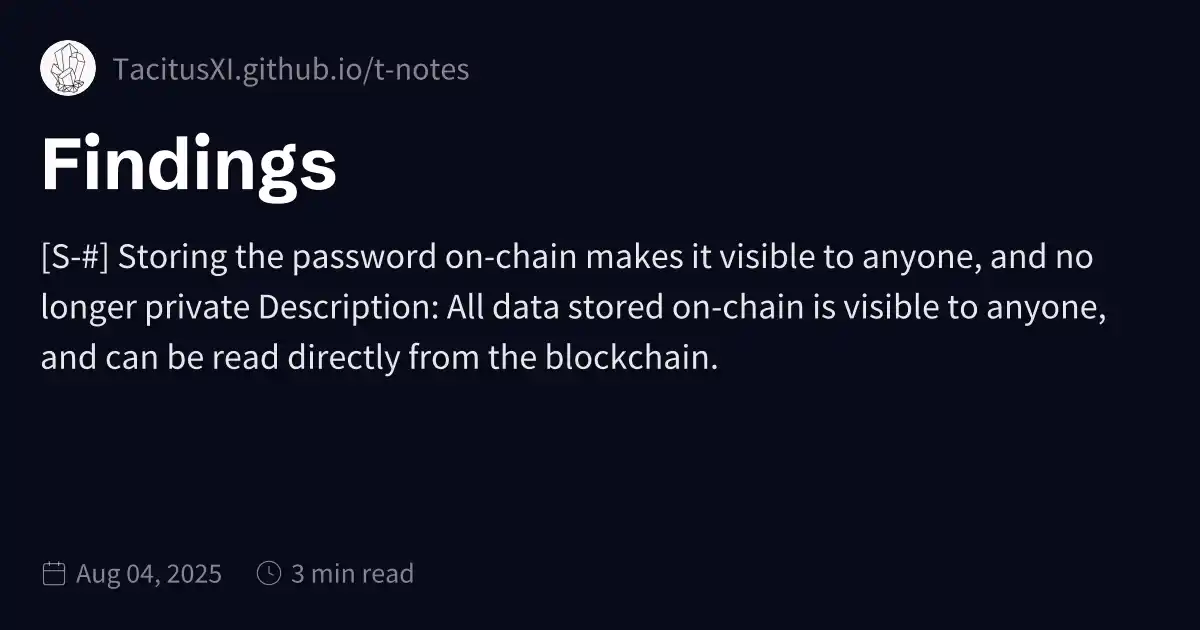
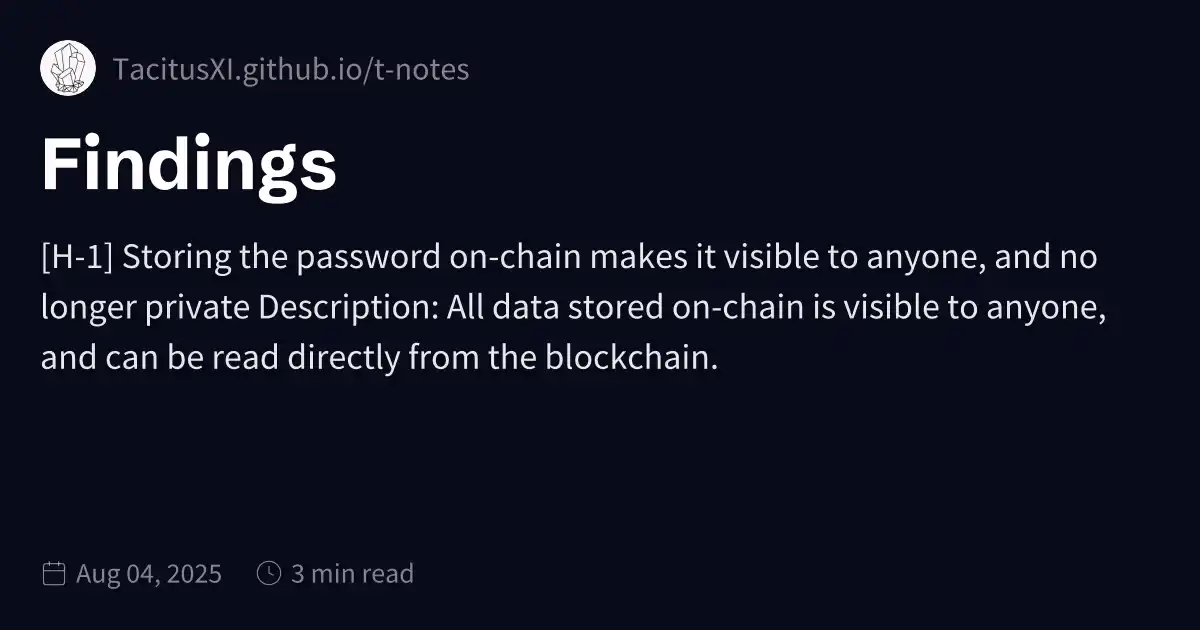
Updates

Changed region(s): [[0.0308, 0.3619, 0.925, 0.4524]]

diff --git a/Audits/PasswordStore/Findings.html b/Audits/PasswordStore/Findings.html
@@ -1,5 +1,5 @@
 <!DOCTYPE html>
-<html lang="en"><head><title>Findings</title><meta charset="utf-8"/><link rel="preconnect" href="https://fonts.googleapis.com"/><link rel="preconnect" href="https://fonts.gstatic.com"/><link rel="stylesheet" href="https://fonts.googleapis.com/css2?family=Schibsted Grotesk:wght@400;700&amp;family=Source Sans Pro:ital,wght@0,400;0,600;1,400;1,600&amp;family=IBM Plex Mono:wght@400;600&amp;display=swap"/><link rel="preconnect" href="https://cdnjs.cloudflare.com" crossorigin="anonymous"/><meta name="viewport" content="width=device-width, initial-scale=1.0"/><meta name="og:site_name" content="Tacitvs Notes"/><meta property="og:title" content="Findings"/><meta property="og:type" content="website"/><meta name="twitter:card" content="summary_large_image"/><meta name="twitter:title" content="Findings"/><meta name="twitter:description" content="[S-#] Storing the password on-chain makes it visible to anyone, and no longer private Description: All data stored on-chain is visible to anyone, and can be read directly from the blockchain."/><meta property="og:description" content="[S-#] Storing the password on-chain makes it visible to anyone, and no longer private Description: All data stored on-chain is visible to anyone, and can be read directly from the blockchain."/><meta property="og:image:alt" content="[S-#] Storing the password on-chain makes it visible to anyone, and no longer private Description: All data stored on-chain is visible to anyone, and can be read directly from the blockchain."/><meta property="twitter:domain" content="TacitusXI.github.io/t-notes"/><meta property="og:url" content="https://tacitusxi.github.io/t-notes/Audits/PasswordStore/Findings"/><meta property="twitter:url" content="https://tacitusxi.github.io/t-notes/Audits/PasswordStore/Findings"/><link rel="icon" href="../../static/icon.png"/><meta name="description" content="[S-#] Storing the password on-chain makes it visible to anyone, and no longer private Description: All data stored on-chain is visible to anyone, and can be read directly from the blockchain."/><meta name="generator" content="Quartz"/><link href="../../index.css" rel="stylesheet" type="text/css" spa-preserve/><style>.expand-button {
+<html lang="en"><head><title>Findings</title><meta charset="utf-8"/><link rel="preconnect" href="https://fonts.googleapis.com"/><link rel="preconnect" href="https://fonts.gstatic.com"/><link rel="stylesheet" href="https://fonts.googleapis.com/css2?family=Schibsted Grotesk:wght@400;700&amp;family=Source Sans Pro:ital,wght@0,400;0,600;1,400;1,600&amp;family=IBM Plex Mono:wght@400;600&amp;display=swap"/><link rel="preconnect" href="https://cdnjs.cloudflare.com" crossorigin="anonymous"/><meta name="viewport" content="width=device-width, initial-scale=1.0"/><meta name="og:site_name" content="Tacitvs Notes"/><meta property="og:title" content="Findings"/><meta property="og:type" content="website"/><meta name="twitter:card" content="summary_large_image"/><meta name="twitter:title" content="Findings"/><meta name="twitter:description" content="[H-1] Storing the password on-chain makes it visible to anyone, and no longer private Description: All data stored on-chain is visible to anyone, and can be read directly from the blockchain."/><meta property="og:description" content="[H-1] Storing the password on-chain makes it visible to anyone, and no longer private Description: All data stored on-chain is visible to anyone, and can be read directly from the blockchain."/><meta property="og:image:alt" content="[H-1] Storing the password on-chain makes it visible to anyone, and no longer private Description: All data stored on-chain is visible to anyone, and can be read directly from the blockchain."/><meta property="twitter:domain" content="TacitusXI.github.io/t-notes"/><meta property="og:url" content="https://tacitusxi.github.io/t-notes/Audits/PasswordStore/Findings"/><meta property="twitter:url" content="https://tacitusxi.github.io/t-notes/Audits/PasswordStore/Findings"/><link rel="icon" href="../../static/icon.png"/><meta name="description" content="[H-1] Storing the password on-chain makes it visible to anyone, and no longer private Description: All data stored on-chain is visible to anyone, and can be read directly from the blockchain."/><meta name="generator" content="Quartz"/><link href="../../index.css" rel="stylesheet" type="text/css" spa-preserve/><style>.expand-button {
   position: absolute;
   display: flex;
   float: right;
@@ -116,7 +116,7 @@ pre:hover > .expand-button {
   padding: 0 12px;
   font-size: 14px;
 }
[2 lines of base64/hex data omitted]
 <p><strong>Description:</strong> All data stored on-chain is visible to anyone, and can be read directly from the blockchain. The <code>PasswordStore::s_password</code> variable is intended to be a private variable and only accessed through the <code>PasswordStore::getPassword</code> function, which is intended to be only called by the owner of the contract.</p>
 <p>We show one such method of reading any data off chain below.</p>
 <p><strong>Impact:</strong> Anyone can read the private password, severly breaking the functionlity of the protocol.</p>
@@ -156,7 +156,19 @@ myPassword
 
 </code></pre>
 <p><strong>Recommended Mitigation:</strong> Due to this, the overall architecture of the contract should be rethought. One could encrypt the password off-chain, and then sore the encrypted password on-chain. This would require user to remember another passwoord off-chain to decrypt the password. However, you’d also likely want to remove view function as you wouldn’t want the user to accidentally send a transaction with the password that decrypt your password.</p>
-<h3 id="s--passwordstoresetpassword-has-no-access-control-meaning-a-non-owner-could-change-the-password">[S-#] <code>PasswordStore::setpassword</code> has no access control, meaning a non-owner could change the password<a role="anchor" aria-hidden="true" tabindex="-1" data-no-popover="true" href="#s--passwordstoresetpassword-has-no-access-control-meaning-a-non-owner-could-change-the-password" class="internal"><svg width="18" height="18" viewBox="0 0 24 24" fill="none" stroke="currentColor" stroke-width="2" stroke-linecap="round" stroke-linejoin="round"><path d="M10 13a5 5 0 0 0 7.54.54l3-3a5 5 0 0 0-7.07-7.07l-1.72 1.71"></path><path d="M14 11a5 5 0 0 0-7.54-.54l-3 3a5 5 0 0 0 7.07 7.07l1.71-1.71"></path></svg></a></h3>
+<h2 id="likelihood--impact">Likelihood &amp; Impact:<a role="anchor" aria-hidden="true" tabindex="-1" data-no-popover="true" href="#likelihood--impact" class="internal"><svg width="18" height="18" viewBox="0 0 24 24" fill="none" stroke="currentColor" stroke-width="2" stroke-linecap="round" stroke-linejoin="round"><path d="M10 13a5 5 0 0 0 7.54.54l3-3a5 5 0 0 0-7.07-7.07l-1.72 1.71"></path><path d="M14 11a5 5 0 0 0-7.54-.54l-3 3a5 5 0 0 0 7.07 7.07l1.71-1.71"></path></svg></a></h2>
+<ul>
+<li>
+<p>Impact: High</p>
+</li>
+<li>
+<p>Likelihood: HIGH</p>
+</li>
+<li>
+<p>Severity: HIGH</p>
+</li>
+</ul>
+<h3 id="h-2-passwordstoresetpassword-has-no-access-control-meaning-a-non-owner-could-change-the-password">[H-2] <code>PasswordStore::setpassword</code> has no access control, meaning a non-owner could change the password<a role="anchor" aria-hidden="true" tabindex="-1" data-no-popover="true" href="#h-2-passwordstoresetpassword-has-no-access-control-meaning-a-non-owner-could-change-the-password" class="internal"><svg width="18" height="18" viewBox="0 0 24 24" fill="none" stroke="currentColor" stroke-width="2" stroke-linecap="round" stroke-linejoin="round"><path d="M10 13a5 5 0 0 0 7.54.54l3-3a5 5 0 0 0-7.07-7.07l-1.72 1.71"></path><path d="M14 11a5 5 0 0 0-7.54-.54l-3 3a5 5 0 0 0 7.07 7.07l1.71-1.71"></path></svg></a></h3>
 <p><strong>Description:</strong> The <code>PasswordStore::setpassword</code> function is set to be an <code>external</code> function, however the natspec of the function and overall purpose of the smart contract is that <code>The function allows only the owner to set a new password.</code></p>
 <figure data-rehype-pretty-code-figure><pre tabindex="0" data-language="javascript" data-theme="github-light github-dark"><code data-language="javascript" data-theme="github-light github-dark" style="display:grid;"><span data-line> </span>
 <span data-line><span style="--shiki-light:#D73A49;--shiki-dark:#F97583;">function</span><span style="--shiki-light:#6F42C1;--shiki-dark:#B392F0;"> setPassword</span><span style="--shiki-light:#24292E;--shiki-dark:#E1E4E8;">(</span><span style="--shiki-light:#E36209;--shiki-dark:#FFAB70;">string</span><span style="--shiki-light:#E36209;--shiki-dark:#FFAB70;"> memory</span><span style="--shiki-light:#E36209;--shiki-dark:#FFAB70;"> newPassword</span><span style="--shiki-light:#24292E;--shiki-dark:#E1E4E8;">) </span><span style="--shiki-light:#6F42C1;--shiki-dark:#B392F0;">external</span><span style="--shiki-light:#24292E;--shiki-dark:#E1E4E8;"> {</span></span>
@@ -203,7 +215,19 @@ myPassword
 <span data-line> </span>
 <span data-line><span style="--shiki-light:#24292E;--shiki-dark:#E1E4E8;">}</span></span>
 <span data-line> </span></code></pre></figure>
-<h3 id="s--the-passwordstoregetpassword-natspec-indicates-a-parameter-that-doesnt-exist-causing-the-natspec-to-be-incorrect">[S-#] The <code>PasswordStore::getPassword</code> natspec indicates a parameter that doesn’t exist, causing the natspec to be incorrect.<a role="anchor" aria-hidden="true" tabindex="-1" data-no-popover="true" href="#s--the-passwordstoregetpassword-natspec-indicates-a-parameter-that-doesnt-exist-causing-the-natspec-to-be-incorrect" class="internal"><svg width="18" height="18" viewBox="0 0 24 24" fill="none" stroke="currentColor" stroke-width="2" stroke-linecap="round" stroke-linejoin="round"><path d="M10 13a5 5 0 0 0 7.54.54l3-3a5 5 0 0 0-7.07-7.07l-1.72 1.71"></path><path d="M14 11a5 5 0 0 0-7.54-.54l-3 3a5 5 0 0 0 7.07 7.07l1.71-1.71"></path></svg></a></h3>
+<h2 id="likelihood--impact-1">Likelihood &amp; Impact:<a role="anchor" aria-hidden="true" tabindex="-1" data-no-popover="true" href="#likelihood--impact-1" class="internal"><svg width="18" height="18" viewBox="0 0 24 24" fill="none" stroke="currentColor" stroke-width="2" stroke-linecap="round" stroke-linejoin="round"><path d="M10 13a5 5 0 0 0 7.54.54l3-3a5 5 0 0 0-7.07-7.07l-1.72 1.71"></path><path d="M14 11a5 5 0 0 0-7.54-.54l-3 3a5 5 0 0 0 7.07 7.07l1.71-1.71"></path></svg></a></h2>
+<ul>
+<li>
+<p>Impact: High</p>
+</li>
+<li>
+<p>Likelihood: HIGH</p>
+</li>
+<li>
+<p>Severity: HIGH</p>
+</li>
+</ul>
+<h3 id="i-1-the-passwordstoregetpassword-natspec-indicates-a-parameter-that-doesnt-exist-causing-the-natspec-to-be-incorrect">[I-1] The <code>PasswordStore::getPassword</code> natspec indicates a parameter that doesn’t exist, causing the natspec to be incorrect.<a role="anchor" aria-hidden="true" tabindex="-1" data-no-popover="true" href="#i-1-the-passwordstoregetpassword-natspec-indicates-a-parameter-that-doesnt-exist-causing-the-natspec-to-be-incorrect" class="internal"><svg width="18" height="18" viewBox="0 0 24 24" fill="none" stroke="currentColor" stroke-width="2" stroke-linecap="round" stroke-linejoin="round"><path d="M10 13a5 5 0 0 0 7.54.54l3-3a5 5 0 0 0-7.07-7.07l-1.72 1.71"></path><path d="M14 11a5 5 0 0 0-7.54-.54l-3 3a5 5 0 0 0 7.07 7.07l1.71-1.71"></path></svg></a></h3>
 <p><strong>Description:</strong></p>
 <pre><code>
 /*
@@ -222,7 +246,20 @@ function getPassword() external view returns (string memory) {
 <p><strong>Recommended Mitigation:</strong> Remove the incorrect natspec line.</p>
 <figure data-rehype-pretty-code-figure><pre tabindex="0" data-language="diff" data-theme="github-light github-dark"><code data-language="diff" data-theme="github-light github-dark" style="display:grid;"><span data-line> </span>
 <span data-line><span style="--shiki-light:#B31D28;--shiki-dark:#FDAEB7;">- * @param newPassword The new password to set.</span></span>
-<span data-line> </span></code></pre></figure></article><hr/><div class="page-footer"></div></div><div class="right sidebar"><div class="graph"><h3>Graph View</h3><div class="graph-outer"><div class="graph-container" data-cfg="{&quot;drag&quot;:true,&quot;zoom&quot;:true,&quot;depth&quot;:1,&quot;scale&quot;:1.1,&quot;repelForce&quot;:0.5,&quot;centerForce&quot;:0.3,&quot;linkDistance&quot;:30,&quot;fontSize&quot;:0.6,&quot;opacityScale&quot;:1,&quot;showTags&quot;:true,&quot;removeTags&quot;:[],&quot;focusOnHover&quot;:false,&quot;enableRadial&quot;:false}"></div><button class="global-graph-icon" aria-label="Global Graph"><svg version="1.1" xmlns="http://www.w3.org/2000/svg" xmlns:xlink="http://www.w3.org/1999/xlink" x="0px" y="0px" viewBox="0 0 55 55" fill="currentColor" xml:space="preserve"><path d="M49,0c-3.309,0-6,2.691-6,6c0,1.035,0.263,2.009,0.726,2.86l-9.829,9.829C32.542,17.634,30.846,17,29,17
+<span data-line> </span></code></pre></figure>
+<h2 id="likelihood--impact-2">Likelihood &amp; Impact:<a role="anchor" aria-hidden="true" tabindex="-1" data-no-popover="true" href="#likelihood--impact-2" class="internal"><svg width="18" height="18" viewBox="0 0 24 24" fill="none" stroke="currentColor" stroke-width="2" stroke-linecap="round" stroke-linejoin="round"><path d="M10 13a5 5 0 0 0 7.54.54l3-3a5 5 0 0 0-7.07-7.07l-1.72 1.71"></path><path d="M14 11a5 5 0 0 0-7.54-.54l-3 3a5 5 0 0 0 7.07 7.07l1.71-1.71"></path></svg></a></h2>
+<ul>
+<li>
+<p>Impact: NONE</p>
+</li>
+<li>
+<p>Likelihood: HIGH?</p>
+</li>
+<li>
+<p>Severity: Informational/Gas/Non-Crits</p>
+</li>
+</ul>
+<p>Informational: Hey, this isn’t a bug, but you should know…</p></article><hr/><div class="page-footer"></div></div><div class="right sidebar"><div class="graph"><h3>Graph View</h3><div class="graph-outer"><div class="graph-container" data-cfg="{&quot;drag&quot;:true,&quot;zoom&quot;:true,&quot;depth&quot;:1,&quot;scale&quot;:1.1,&quot;repelForce&quot;:0.5,&quot;centerForce&quot;:0.3,&quot;linkDistance&quot;:30,&quot;fontSize&quot;:0.6,&quot;opacityScale&quot;:1,&quot;showTags&quot;:true,&quot;removeTags&quot;:[],&quot;focusOnHover&quot;:false,&quot;enableRadial&quot;:false}"></div><button class="global-graph-icon" aria-label="Global Graph"><svg version="1.1" xmlns="http://www.w3.org/2000/svg" xmlns:xlink="http://www.w3.org/1999/xlink" x="0px" y="0px" viewBox="0 0 55 55" fill="currentColor" xml:space="preserve"><path d="M49,0c-3.309,0-6,2.691-6,6c0,1.035,0.263,2.009,0.726,2.86l-9.829,9.829C32.542,17.634,30.846,17,29,17
                 s-3.542,0.634-4.898,1.688l-7.669-7.669C16.785,10.424,17,9.74,17,9c0-2.206-1.794-4-4-4S9,6.794,9,9s1.794,4,4,4
                 c0.74,0,1.424-0.215,2.019-0.567l7.669,7.669C21.634,21.458,21,23.154,21,25s0.634,3.542,1.688,4.897L10.024,42.562
                 C8.958,41.595,7.549,41,6,41c-3.309,0-6,2.691-6,6s2.691,6,6,6s6-2.691,6-6c0-1.035-0.263-2.009-0.726-2.86l12.829-12.829
@@ -232,6 +269,6 @@ function getPassword() external view returns (string memory) {
                 C46.042,11.405,47.451,12,49,12c3.309,0,6-2.691,6-6S52.309,0,49,0z M11,9c0-1.103,0.897-2,2-2s2,0.897,2,2s-0.897,2-2,2
                 S11,10.103,11,9z M6,51c-2.206,0-4-1.794-4-4s1.794-4,4-4s4,1.794,4,4S8.206,51,6,51z M33,49c0,2.206-1.794,4-4,4s-4-1.794-4-4
                 s1.794-4,4-4S33,46.794,33,49z M29,31c-3.309,0-6-2.691-6-6s2.691-6,6-6s6,2.691,6,6S32.309,31,29,31z M47,41c0,1.103-0.897,2-2,2
-                s-2-0.897-2-2s0.897-2,2-2S47,39.897,47,41z M49,10c-2.206,0-4-1.794-4-4s1.794-4,4-4s4,1.794,4,4S51.206,10,49,10z"></path></svg></button></div><div class="global-graph-outer"><div class="global-graph-container" data-cfg="{&quot;drag&quot;:true,&quot;zoom&quot;:true,&quot;depth&quot;:-1,&quot;scale&quot;:0.9,&quot;repelForce&quot;:0.5,&quot;centerForce&quot;:0.2,&quot;linkDistance&quot;:30,&quot;fontSize&quot;:0.6,&quot;opacityScale&quot;:1,&quot;showTags&quot;:true,&quot;removeTags&quot;:[],&quot;focusOnHover&quot;:true,&quot;enableRadial&quot;:true}"></div></div></div><div class="toc desktop-only"><button type="button" class="toc-header" aria-controls="toc-content" aria-expanded="true"><h3>Table of Contents</h3><svg xmlns="http://www.w3.org/2000/svg" width="24" height="24" viewBox="0 0 24 24" fill="none" stroke="currentColor" stroke-width="2" stroke-linecap="round" stroke-linejoin="round" class="fold"><polyline points="6 9 12 15 18 9"></polyline></svg></button><ul class="toc-content overflow" id="list-1"><li class="depth-0"><a href="#s--storing-the-password-on-chain-makes-it-visible-to-anyone-and-no-longer-private" data-for="s--storing-the-password-on-chain-makes-it-visible-to-anyone-and-no-longer-private">[S-#] Storing the password on-chain makes it visible to anyone, and no longer private</a></li><li class="depth-0"><a href="#s--passwordstoresetpassword-has-no-access-control-meaning-a-non-owner-could-change-the-password" data-for="s--passwordstoresetpassword-has-no-access-control-meaning-a-non-owner-could-change-the-password">[S-#] PasswordStore::setpassword has no access control, meaning a non-owner could change the password</a></li><li class="depth-0"><a href="#s--the-passwordstoregetpassword-natspec-indicates-a-parameter-that-doesnt-exist-causing-the-natspec-to-be-incorrect" data-for="s--the-passwordstoregetpassword-natspec-indicates-a-parameter-that-doesnt-exist-causing-the-natspec-to-be-incorrect">[S-#] The PasswordStore::getPassword natspec indicates a parameter that doesn’t exist, causing the natspec to be incorrect.</a></li><li class="overflow-end"></li></ul></div></div><footer class><p>© 2025 Ivan Leskov. All rights reserved.</p><ul><li><a href="https://github.com/TacitusXI/t-notes">GitHub</a></li><li><a href="https://tacitvs.eth.limo/">Digital Hub</a></li></ul></footer></div></div></body><script type="application/javascript">function n(){let t=this.parentElement;t.classList.toggle("is-collapsed");let e=t.getElementsByClassName("callout-content")[0];if(!e)return;let l=t.classList.contains("is-collapsed");e.style.gridTemplateRows=l?"0fr":"1fr"}function c(){let t=document.getElementsByClassName("callout is-collapsible");for(let e of t){let l=e.getElementsByClassName("callout-title")[0],s=e.getElementsByClassName("callout-content")[0];if(!l||!s)continue;l.addEventListener("click",n),window.addCleanup(()=>l.removeEventListener("click",n));let o=e.classList.contains("is-collapsed");s.style.gridTemplateRows=o?"0fr":"1fr"}}document.addEventListener("nav",c);
+                s-2-0.897-2-2s0.897-2,2-2S47,39.897,47,41z M49,10c-2.206,0-4-1.794-4-4s1.794-4,4-4s4,1.794,4,4S51.206,10,49,10z"></path></svg></button></div><div class="global-graph-outer"><div class="global-graph-container" data-cfg="{&quot;drag&quot;:true,&quot;zoom&quot;:true,&quot;depth&quot;:-1,&quot;scale&quot;:0.9,&quot;repelForce&quot;:0.5,&quot;centerForce&quot;:0.2,&quot;linkDistance&quot;:30,&quot;fontSize&quot;:0.6,&quot;opacityScale&quot;:1,&quot;showTags&quot;:true,&quot;removeTags&quot;:[],&quot;focusOnHover&quot;:true,&quot;enableRadial&quot;:true}"></div></div></div><div class="toc desktop-only"><button type="button" class="toc-header" aria-controls="toc-content" aria-expanded="true"><h3>Table of Contents</h3><svg xmlns="http://www.w3.org/2000/svg" width="24" height="24" viewBox="0 0 24 24" fill="none" stroke="currentColor" stroke-width="2" stroke-linecap="round" stroke-linejoin="round" class="fold"><polyline points="6 9 12 15 18 9"></polyline></svg></button><ul class="toc-content overflow" id="list-1"><li class="depth-1"><a href="#h-1-storing-the-password-on-chain-makes-it-visible-to-anyone-and-no-longer-private" data-for="h-1-storing-the-password-on-chain-makes-it-visible-to-anyone-and-no-longer-private">[H-1] Storing the password on-chain makes it visible to anyone, and no longer private</a></li><li class="depth-0"><a href="#likelihood--impact" data-for="likelihood--impact">Likelihood &amp; Impact:</a></li><li class="depth-1"><a href="#h-2-passwordstoresetpassword-has-no-access-control-meaning-a-non-owner-could-change-the-password" data-for="h-2-passwordstoresetpassword-has-no-access-control-meaning-a-non-owner-could-change-the-password">[H-2] PasswordStore::setpassword has no access control, meaning a non-owner could change the password</a></li><li class="depth-0"><a href="#likelihood--impact-1" data-for="likelihood--impact-1">Likelihood &amp; Impact:</a></li><li class="depth-1"><a href="#i-1-the-passwordstoregetpassword-natspec-indicates-a-parameter-that-doesnt-exist-causing-the-natspec-to-be-incorrect" data-for="i-1-the-passwordstoregetpassword-natspec-indicates-a-parameter-that-doesnt-exist-causing-the-natspec-to-be-incorrect">[I-1] The PasswordStore::getPassword natspec indicates a parameter that doesn’t exist, causing the natspec to be incorrect.</a></li><li class="depth-0"><a href="#likelihood--impact-2" data-for="likelihood--impact-2">Likelihood &amp; Impact:</a></li><li class="overflow-end"></li></ul></div></div><footer class><p>© 2025 Ivan Leskov. All rights reserved.</p><ul><li><a href="https://github.com/TacitusXI/t-notes">GitHub</a></li><li><a href="https://tacitvs.eth.limo/">Digital Hub</a></li></ul></footer></div></div></body><script type="application/javascript">function n(){let t=this.parentElement;t.classList.toggle("is-collapsed");let e=t.getElementsByClassName("callout-content")[0];if(!e)return;let l=t.classList.contains("is-collapsed");e.style.gridTemplateRows=l?"0fr":"1fr"}function c(){let t=document.getElementsByClassName("callout is-collapsible");for(let e of t){let l=e.getElementsByClassName("callout-title")[0],s=e.getElementsByClassName("callout-content")[0];if(!l||!s)continue;l.addEventListener("click",n),window.addCleanup(()=>l.removeEventListener("click",n));let o=e.classList.contains("is-collapsed");s.style.gridTemplateRows=o?"0fr":"1fr"}}document.addEventListener("nav",c);
 </script><script type="module">function f(i,e){if(!i)return;function r(o){o.target===this&&(o.preventDefault(),o.stopPropagation(),e())}function t(o){o.key.startsWith("Esc")&&(o.preventDefault(),e())}i?.addEventListener("click",r),window.addCleanup(()=>i?.removeEventListener("click",r)),document.addEventListener("keydown",t),window.addCleanup(()=>document.removeEventListener("keydown",t))}function y(i){for(;i.firstChild;)i.removeChild(i.firstChild)}var h=class{constructor(e,r){this.container=e;this.content=r;this.setupEventListeners(),this.setupNavigationControls(),this.resetTransform()}isDragging=!1;startPan={x:0,y:0};currentPan={x:0,y:0};scale=1;MIN_SCALE=.5;MAX_SCALE=3;cleanups=[];setupEventListeners(){let e=this.onMouseDown.bind(this),r=this.onMouseMove.bind(this),t=this.onMouseUp.bind(this),o=this.resetTransform.bind(this);this.container.addEventListener("mousedown",e),document.addEventListener("mousemove",r),document.addEventListener("mouseup",t),window.addEventListener("resize",o),this.cleanups.push(()=>this.container.removeEventListener("mousedown",e),()=>document.removeEventListener("mousemove",r),()=>document.removeEventListener("mouseup",t),()=>window.removeEventListener("resize",o))}cleanup(){for(let e of this.cleanups)e()}setupNavigationControls(){let e=document.createElement("div");e.className="mermaid-controls";let r=this.createButton("+",()=>this.zoom(.1)),t=this.createButton("-",()=>this.zoom(-.1)),o=this.createButton("Reset",()=>this.resetTransform());e.appendChild(t),e.appendChild(o),e.appendChild(r),this.container.appendChild(e)}createButton(e,r){let t=document.createElement("button");return t.textContent=e,t.className="mermaid-control-button",t.addEventListener("click",r),window.addCleanup(()=>t.removeEventListener("click",r)),t}onMouseDown(e){e.button===0&&(this.isDragging=!0,this.startPan={x:e.clientX-this.currentPan.x,y:e.clientY-this.currentPan.y},this.container.style.cursor="grabbing")}onMouseMove(e){this.isDragging&&(e.preventDefault(),this.currentPan={x:e.clientX-this.startPan.x,y:e.clientY-this.startPan.y},this.updateTransform())}onMouseUp(){this.isDragging=!1,this.container.style.cursor="grab"}zoom(e){let r=Math.min(Math.max(this.scale+e,this.MIN_SCALE),this.MAX_SCALE),t=this.content.getBoundingClientRect(),o=t.width/2,n=t.height/2,c=r-this.scale;this.currentPan.x-=o*c,this.currentPan.y-=n*c,this.scale=r,this.updateTransform()}updateTransform(){this.content.style.transform=`translate(${this.currentPan.x}px, ${this.currentPan.y}px) scale(${this.scale})`}resetTransform(){this.scale=1;let e=this.content.querySelector("svg");this.currentPan={x:e.getBoundingClientRect().width/2,y:e.getBoundingClientRect().height/2},this.updateTransform()}},C=["--secondary","--tertiary","--gray","--light","--lightgray","--highlight","--dark","--darkgray","--codeFont"],E;document.addEventListener("nav",async()=>{let e=document.querySelector(".center").querySelectorAll("code.mermaid");if(e.length===0)return;E||=await import("https://cdnjs.cloudflare.com/ajax/libs/mermaid/11.4.0/mermaid.esm.min.mjs");let r=E.default,t=new WeakMap;for(let n of e)t.set(n,n.innerText);async function o(){for(let s of e){s.removeAttribute("data-processed");let a=t.get(s);a&&(s.innerHTML=a)}let n=C.reduce((s,a)=>(s[a]=window.getComputedStyle(document.documentElement).getPropertyValue(a),s),{}),c=document.documentElement.getAttribute("saved-theme")==="dark";r.initialize({startOnLoad:!1,securityLevel:"loose",theme:c?"dark":"base",themeVariables:{fontFamily:n["--codeFont"],primaryColor:n["--light"],primaryTextColor:n["--darkgray"],primaryBorderColor:n["--tertiary"],lineColor:n["--darkgray"],secondaryColor:n["--secondary"],tertiaryColor:n["--tertiary"],clusterBkg:n["--light"],edgeLabelBackground:n["--highlight"]}}),await r.run({nodes:e})}await o(),document.addEventListener("themechange",o),window.addCleanup(()=>document.removeEventListener("themechange",o));for(let n=0;n<e.length;n++){let v=function(){let g=l.querySelector("#mermaid-space"),m=l.querySelector(".mermaid-content");if(!m)return;y(m);let w=c.querySelector("svg").cloneNode(!0);m.appendChild(w),l.classList.add("active"),g.style.cursor="grab",u=new h(g,m)},M=function(){l.classList.remove("active"),u?.cleanup(),u=null},c=e[n],s=c.parentElement,a=s.querySelector(".clipboard-button"),d=s.querySelector(".expand-button"),p=window.getComputedStyle(a),L=a.offsetWidth+parseFloat(p.marginLeft||"0")+parseFloat(p.marginRight||"0");d.style.right=`calc(${L}px + 0.3rem)`,s.prepend(d);let l=s.querySelector("#mermaid-container");if(!l)return;let u=null;d.addEventListener("click",v),f(l,M),window.addCleanup(()=>{u?.cleanup(),d.removeEventListener("click",v)})}});
 </script><script src="https://cdn.jsdelivr.net/npm/katex@0.16.11/dist/contrib/copy-tex.min.js" type="application/javascript"></script><script src="../../postscript.js" type="module"></script></html>

diff --git a/Audits/PasswordStore/index.html b/Audits/PasswordStore/index.html
@@ -116,6 +116,6 @@ pre:hover > .expand-button {
   padding: 0 12px;
   font-size: 14px;
 }
[2 lines of base64/hex data omitted]
 </script><script type="module">function f(i,e){if(!i)return;function r(o){o.target===this&&(o.preventDefault(),o.stopPropagation(),e())}function t(o){o.key.startsWith("Esc")&&(o.preventDefault(),e())}i?.addEventListener("click",r),window.addCleanup(()=>i?.removeEventListener("click",r)),document.addEventListener("keydown",t),window.addCleanup(()=>document.removeEventListener("keydown",t))}function y(i){for(;i.firstChild;)i.removeChild(i.firstChild)}var h=class{constructor(e,r){this.container=e;this.content=r;this.setupEventListeners(),this.setupNavigationControls(),this.resetTransform()}isDragging=!1;startPan={x:0,y:0};currentPan={x:0,y:0};scale=1;MIN_SCALE=.5;MAX_SCALE=3;cleanups=[];setupEventListeners(){let e=this.onMouseDown.bind(this),r=this.onMouseMove.bind(this),t=this.onMouseUp.bind(this),o=this.resetTransform.bind(this);this.container.addEventListener("mousedown",e),document.addEventListener("mousemove",r),document.addEventListener("mouseup",t),window.addEventListener("resize",o),this.cleanups.push(()=>this.container.removeEventListener("mousedown",e),()=>document.removeEventListener("mousemove",r),()=>document.removeEventListener("mouseup",t),()=>window.removeEventListener("resize",o))}cleanup(){for(let e of this.cleanups)e()}setupNavigationControls(){let e=document.createElement("div");e.className="mermaid-controls";let r=this.createButton("+",()=>this.zoom(.1)),t=this.createButton("-",()=>this.zoom(-.1)),o=this.createButton("Reset",()=>this.resetTransform());e.appendChild(t),e.appendChild(o),e.appendChild(r),this.container.appendChild(e)}createButton(e,r){let t=document.createElement("button");return t.textContent=e,t.className="mermaid-control-button",t.addEventListener("click",r),window.addCleanup(()=>t.removeEventListener("click",r)),t}onMouseDown(e){e.button===0&&(this.isDragging=!0,this.startPan={x:e.clientX-this.currentPan.x,y:e.clientY-this.currentPan.y},this.container.style.cursor="grabbing")}onMouseMove(e){this.isDragging&&(e.preventDefault(),this.currentPan={x:e.clientX-this.startPan.x,y:e.clientY-this.startPan.y},this.updateTransform())}onMouseUp(){this.isDragging=!1,this.container.style.cursor="grab"}zoom(e){let r=Math.min(Math.max(this.scale+e,this.MIN_SCALE),this.MAX_SCALE),t=this.content.getBoundingClientRect(),o=t.width/2,n=t.height/2,c=r-this.scale;this.currentPan.x-=o*c,this.currentPan.y-=n*c,this.scale=r,this.updateTransform()}updateTransform(){this.content.style.transform=`translate(${this.currentPan.x}px, ${this.currentPan.y}px) scale(${this.scale})`}resetTransform(){this.scale=1;let e=this.content.querySelector("svg");this.currentPan={x:e.getBoundingClientRect().width/2,y:e.getBoundingClientRect().height/2},this.updateTransform()}},C=["--secondary","--tertiary","--gray","--light","--lightgray","--highlight","--dark","--darkgray","--codeFont"],E;document.addEventListener("nav",async()=>{let e=document.querySelector(".center").querySelectorAll("code.mermaid");if(e.length===0)return;E||=await import("https://cdnjs.cloudflare.com/ajax/libs/mermaid/11.4.0/mermaid.esm.min.mjs");let r=E.default,t=new WeakMap;for(let n of e)t.set(n,n.innerText);async function o(){for(let s of e){s.removeAttribute("data-processed");let a=t.get(s);a&&(s.innerHTML=a)}let n=C.reduce((s,a)=>(s[a]=window.getComputedStyle(document.documentElement).getPropertyValue(a),s),{}),c=document.documentElement.getAttribute("saved-theme")==="dark";r.initialize({startOnLoad:!1,securityLevel:"loose",theme:c?"dark":"base",themeVariables:{fontFamily:n["--codeFont"],primaryColor:n["--light"],primaryTextColor:n["--darkgray"],primaryBorderColor:n["--tertiary"],lineColor:n["--darkgray"],secondaryColor:n["--secondary"],tertiaryColor:n["--tertiary"],clusterBkg:n["--light"],edgeLabelBackground:n["--highlight"]}}),await r.run({nodes:e})}await o(),document.addEventListener("themechange",o),window.addCleanup(()=>document.removeEventListener("themechange",o));for(let n=0;n<e.length;n++){let v=function(){let g=l.querySelector("#mermaid-space"),m=l.querySelector(".mermaid-content");if(!m)return;y(m);let w=c.querySelector("svg").cloneNode(!0);m.appendChild(w),l.classList.add("active"),g.style.cursor="grab",u=new h(g,m)},M=function(){l.classList.remove("active"),u?.cleanup(),u=null},c=e[n],s=c.parentElement,a=s.querySelector(".clipboard-button"),d=s.querySelector(".expand-button"),p=window.getComputedStyle(a),L=a.offsetWidth+parseFloat(p.marginLeft||"0")+parseFloat(p.marginRight||"0");d.style.right=`calc(${L}px + 0.3rem)`,s.prepend(d);let l=s.querySelector("#mermaid-container");if(!l)return;let u=null;d.addEventListener("click",v),f(l,M),window.addCleanup(()=>{u?.cleanup(),d.removeEventListener("click",v)})}});
 </script><script src="https://cdn.jsdelivr.net/npm/katex@0.16.11/dist/contrib/copy-tex.min.js" type="application/javascript"></script><script src="../../postscript.js" type="module"></script></html>

diff --git a/Audits/index.html b/Audits/index.html
@@ -116,6 +116,6 @@ pre:hover > .expand-button {
   padding: 0 12px;
   font-size: 14px;
 }
[2 lines of base64/hex data omitted]
 </script><script type="module">function f(i,e){if(!i)return;function r(o){o.target===this&&(o.preventDefault(),o.stopPropagation(),e())}function t(o){o.key.startsWith("Esc")&&(o.preventDefault(),e())}i?.addEventListener("click",r),window.addCleanup(()=>i?.removeEventListener("click",r)),document.addEventListener("keydown",t),window.addCleanup(()=>document.removeEventListener("keydown",t))}function y(i){for(;i.firstChild;)i.removeChild(i.firstChild)}var h=class{constructor(e,r){this.container=e;this.content=r;this.setupEventListeners(),this.setupNavigationControls(),this.resetTransform()}isDragging=!1;startPan={x:0,y:0};currentPan={x:0,y:0};scale=1;MIN_SCALE=.5;MAX_SCALE=3;cleanups=[];setupEventListeners(){let e=this.onMouseDown.bind(this),r=this.onMouseMove.bind(this),t=this.onMouseUp.bind(this),o=this.resetTransform.bind(this);this.container.addEventListener("mousedown",e),document.addEventListener("mousemove",r),document.addEventListener("mouseup",t),window.addEventListener("resize",o),this.cleanups.push(()=>this.container.removeEventListener("mousedown",e),()=>document.removeEventListener("mousemove",r),()=>document.removeEventListener("mouseup",t),()=>window.removeEventListener("resize",o))}cleanup(){for(let e of this.cleanups)e()}setupNavigationControls(){let e=document.createElement("div");e.className="mermaid-controls";let r=this.createButton("+",()=>this.zoom(.1)),t=this.createButton("-",()=>this.zoom(-.1)),o=this.createButton("Reset",()=>this.resetTransform());e.appendChild(t),e.appendChild(o),e.appendChild(r),this.container.appendChild(e)}createButton(e,r){let t=document.createElement("button");return t.textContent=e,t.className="mermaid-control-button",t.addEventListener("click",r),window.addCleanup(()=>t.removeEventListener("click",r)),t}onMouseDown(e){e.button===0&&(this.isDragging=!0,this.startPan={x:e.clientX-this.currentPan.x,y:e.clientY-this.currentPan.y},this.container.style.cursor="grabbing")}onMouseMove(e){this.isDragging&&(e.preventDefault(),this.currentPan={x:e.clientX-this.startPan.x,y:e.clientY-this.startPan.y},this.updateTransform())}onMouseUp(){this.isDragging=!1,this.container.style.cursor="grab"}zoom(e){let r=Math.min(Math.max(this.scale+e,this.MIN_SCALE),this.MAX_SCALE),t=this.content.getBoundingClientRect(),o=t.width/2,n=t.height/2,c=r-this.scale;this.currentPan.x-=o*c,this.currentPan.y-=n*c,this.scale=r,this.updateTransform()}updateTransform(){this.content.style.transform=`translate(${this.currentPan.x}px, ${this.currentPan.y}px) scale(${this.scale})`}resetTransform(){this.scale=1;let e=this.content.querySelector("svg");this.currentPan={x:e.getBoundingClientRect().width/2,y:e.getBoundingClientRect().height/2},this.updateTransform()}},C=["--secondary","--tertiary","--gray","--light","--lightgray","--highlight","--dark","--darkgray","--codeFont"],E;document.addEventListener("nav",async()=>{let e=document.querySelector(".center").querySelectorAll("code.mermaid");if(e.length===0)return;E||=await import("https://cdnjs.cloudflare.com/ajax/libs/mermaid/11.4.0/mermaid.esm.min.mjs");let r=E.default,t=new WeakMap;for(let n of e)t.set(n,n.innerText);async function o(){for(let s of e){s.removeAttribute("data-processed");let a=t.get(s);a&&(s.innerHTML=a)}let n=C.reduce((s,a)=>(s[a]=window.getComputedStyle(document.documentElement).getPropertyValue(a),s),{}),c=document.documentElement.getAttribute("saved-theme")==="dark";r.initialize({startOnLoad:!1,securityLevel:"loose",theme:c?"dark":"base",themeVariables:{fontFamily:n["--codeFont"],primaryColor:n["--light"],primaryTextColor:n["--darkgray"],primaryBorderColor:n["--tertiary"],lineColor:n["--darkgray"],secondaryColor:n["--secondary"],tertiaryColor:n["--tertiary"],clusterBkg:n["--light"],edgeLabelBackground:n["--highlight"]}}),await r.run({nodes:e})}await o(),document.addEventListener("themechange",o),window.addCleanup(()=>document.removeEventListener("themechange",o));for(let n=0;n<e.length;n++){let v=function(){let g=l.querySelector("#mermaid-space"),m=l.querySelector(".mermaid-content");if(!m)return;y(m);let w=c.querySelector("svg").cloneNode(!0);m.appendChild(w),l.classList.add("active"),g.style.cursor="grab",u=new h(g,m)},M=function(){l.classList.remove("active"),u?.cleanup(),u=null},c=e[n],s=c.parentElement,a=s.querySelector(".clipboard-button"),d=s.querySelector(".expand-button"),p=window.getComputedStyle(a),L=a.offsetWidth+parseFloat(p.marginLeft||"0")+parseFloat(p.marginRight||"0");d.style.right=`calc(${L}px + 0.3rem)`,s.prepend(d);let l=s.querySelector("#mermaid-container");if(!l)return;let u=null;d.addEventListener("click",v),f(l,M),window.addCleanup(()=>{u?.cleanup(),d.removeEventListener("click",v)})}});
 </script><script src="https://cdn.jsdelivr.net/npm/katex@0.16.11/dist/contrib/copy-tex.min.js" type="application/javascript"></script><script src="../postscript.js" type="module"></script></html>

diff --git a/Audits/PasswordStore/PasswordStore.html b/Audits/PasswordStore/PasswordStore.html
@@ -116,7 +116,7 @@ pre:hover > .expand-button {
   padding: 0 12px;
   font-size: 14px;
 }
[2 lines of base64/hex data omitted]
 <span data-line> </span>
 <span data-line><span style="--shiki-light:#24292E;--shiki-dark:#E1E4E8;">pragma solidity </span><span style="--shiki-light:#005CC5;--shiki-dark:#79B8FF;">0.8</span><span style="--shiki-light:#24292E;--shiki-dark:#E1E4E8;">.</span><span style="--shiki-light:#005CC5;--shiki-dark:#79B8FF;">18</span><span style="--shiki-light:#24292E;--shiki-dark:#E1E4E8;">;</span></span>
 <span data-line> </span>
